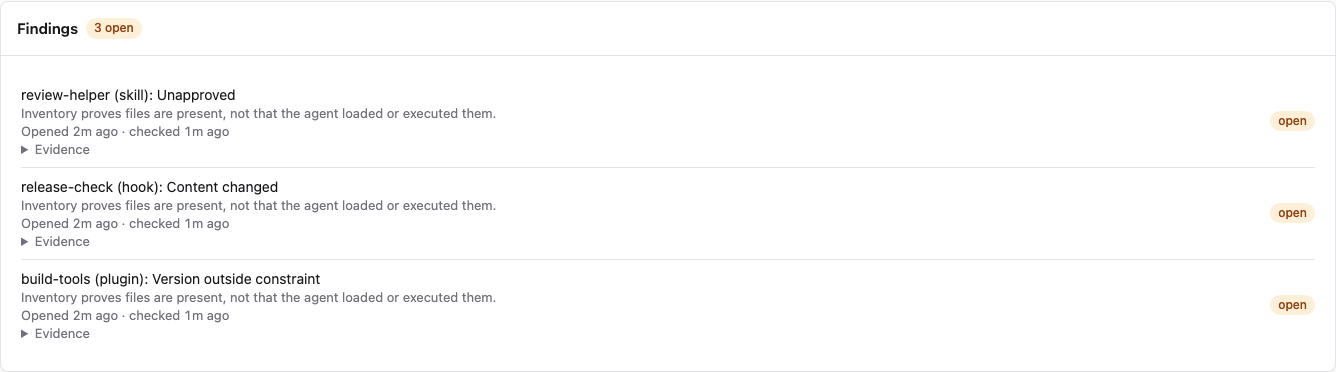
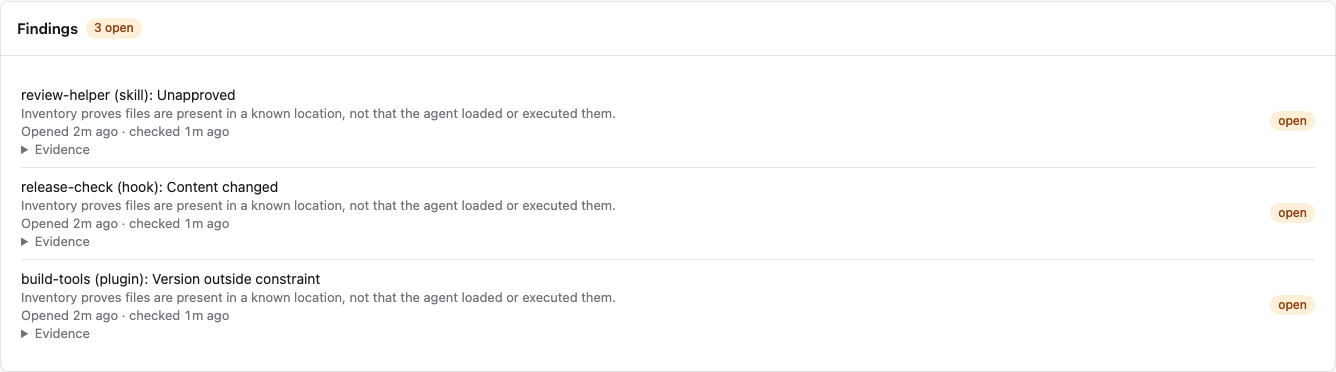
Verify finding titles with fleet API producer fixtures

Changed region(s): [[0.1534, 0.7688, 0.4603, 0.828], [0.1534, 0.5323, 0.4603, 0.5618], [0.1534, 0.2957, 0.4603, 0.3253]]

diff --git a/frontend/src/views/authed/device-fleet-view.test.ts b/frontend/src/views/authed/device-fleet-view.test.ts
@@ -5,7 +5,8 @@ import sinon from 'sinon';
 import { mockApi, type MockApi } from '../../test-helpers/capability-api';
 import { invalidateApiCaches } from '../../api';
 import { capabilityRoutesFor } from '../../lazy-routes';
-import { hasFleetPermission } from '../../device-fleet-api';
+import { hasFleetPermission, type FleetFinding } from '../../device-fleet-api';
+import { fleetExtensionFindings } from '../../test-helpers/fleet-extension-findings';
 import { sampleFleetMap } from '../../test-helpers/fleet-map-graph';
 import './device-fleet-view';
 
@@ -112,7 +113,8 @@ describe('Device fleet', () => {
   });
   function setup(
     enabled = true,
-    permissions: string[] = ['view_device_fleet', 'manage_device_fleet']
+    permissions: string[] = ['view_device_fleet', 'manage_device_fleet'],
+    findings: FleetFinding[] = device.findings
   ) {
     api = mockApi({
       capabilities: enabled ? ['fleet_coverage'] : [],
@@ -122,7 +124,7 @@ describe('Device fleet', () => {
           path: '/api/v1/fleet/device-fleet',
           body: {
             schema_version: 1,
-            items: [device],
+            items: [{ ...device, findings }],
             total: 1,
             truncated: false,
             summary: {
@@ -137,7 +139,11 @@ describe('Device fleet', () => {
         },
         {
           path: '/api/v1/fleet/device-fleet/detail',
-          body: { schema_version: 1, device, observations: [] },
+          body: {
+            schema_version: 1,
+            device: { ...device, findings },
+            observations: [],
+          },
         },
         { path: '/api/v1/fleet/settings', body: settings },
         {
@@ -165,6 +171,26 @@ describe('Device fleet', () => {
     await view.updateComplete;
     return view;
   }
+  it('renders extension findings from the fleet API producer contract', async () => {
+    history.replaceState(
+      {},
+      '',
+      '?device=' + encodeURIComponent(device.device_key)
+    );
+    setup(true, ['view_device_fleet'], fleetExtensionFindings);
+    const view = await mount();
+    expect(api.callsTo('/api/v1/fleet/device-fleet/detail')).to.have.length(1);
+    const titles = Array.from(
+      view.shadowRoot.querySelectorAll(
+        '[data-testid="device-findings"] .row-main > span:first-child'
+      )
+    ).map((row) => (row as HTMLElement).textContent!.trim());
+    expect(titles).to.deep.equal([
+      'review-helper (skill): Unapproved',
+      'release-check (hook): Content changed',
+      'build-tools (plugin): Version outside constraint',
+    ]);
+  });
   it('names each extension finding and its effective reason before expanding evidence', async () => {
     history.replaceState(
       {},

diff --git a/frontend/src/test-helpers/fleet-extension-findings.ts b/frontend/src/test-helpers/fleet-extension-findings.ts
@@ -1,0 +1,69 @@
+import type { FleetFinding } from '../device-fleet-api';
+
+/**
+ * Synthetic API records verified against the Enterprise fleet evidence
+ * producer's evaluate_extensions and finding_summary serializers (2026-11-26).
+ * These are persisted fleet findings, not the CLI's local discovery findings:
+ * the evaluator preserves extension_id, emits extension_kind as kind, and
+ * records its verdict as reason. The summary passes that evidence through.
+ */
+export const fleetExtensionFindings: FleetFinding[] = [
+  {
+    extension_id: 'review-helper',
+    kind: 'skill',
+    reason: 'unapproved',
+    approval_state: 'unapproved',
+    effective_state: 'unapproved',
+    version: null,
+    version_constraint: null,
+  },
+  {
+    extension_id: 'release-check',
+    kind: 'hook',
+    reason: 'content_changed',
+    approval_state: 'approved',
+    effective_state: 'content_changed',
+    version: null,
+    version_constraint: null,
+    pinned_hashes: ['sha256:' + 'a'.repeat(64)],
+  },
+  {
+    extension_id: 'build-tools',
+    kind: 'plugin',
+    reason: 'version_outside_constraint',
+    approval_state: 'approved',
+    effective_state: 'approved',
+    version: '2.0.0',
+    version_constraint: '1.4.*',
+  },
+].map((evidence, index) => ({
+  id: `00000000-0000-4000-8000-00000000000${index + 1}`,
+  rule: 'unapproved_extension',
+  device_key: 'fp:' + 'a'.repeat(64),
+  user_id: null,
+  state: 'open',
+  opened_at: '2026-11-26T10:00:00Z',
+  last_evaluated_at: '2026-11-26T10:01:00Z',
+  resolved_at: null,
+  evidence: {
+    agent_kind: 'claude_code',
+    profile_ref: 'default',
+    source_kind: 'local',
+    content_hash: 'sha256:' + 'b'.repeat(64),
+    content_hash_status: 'ok',
+    scope: 'user',
+    project_ref_hash: null,
+    first_seen_at: '2026-11-26T10:00:00Z',
+    last_seen_at: '2026-11-26T10:01:00Z',
+    attention_enabled: true,
+    ...evidence,
+  },
+  limitation:
+    'Inventory proves files are present in a known location, not that the agent loaded or executed them.',
+  title: 'An installed agent extension needs approval.',
+  detail:
+    'Inventory proves files are present in a known location, not that the agent loaded or executed them.',
+  href: '/console/settings/device-fleet',
+  severity: 'warning',
+  source: 'device_fleet',
+}));
